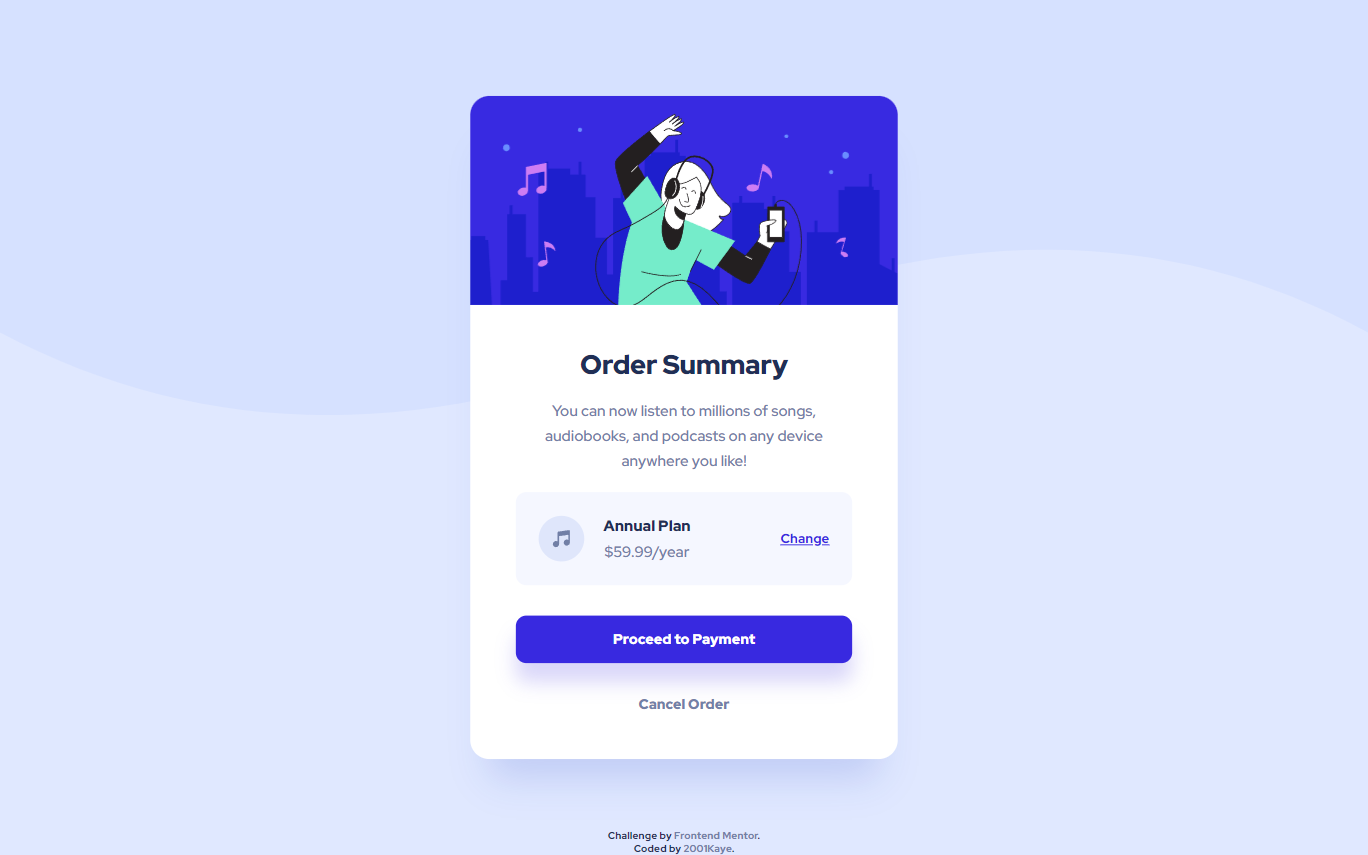
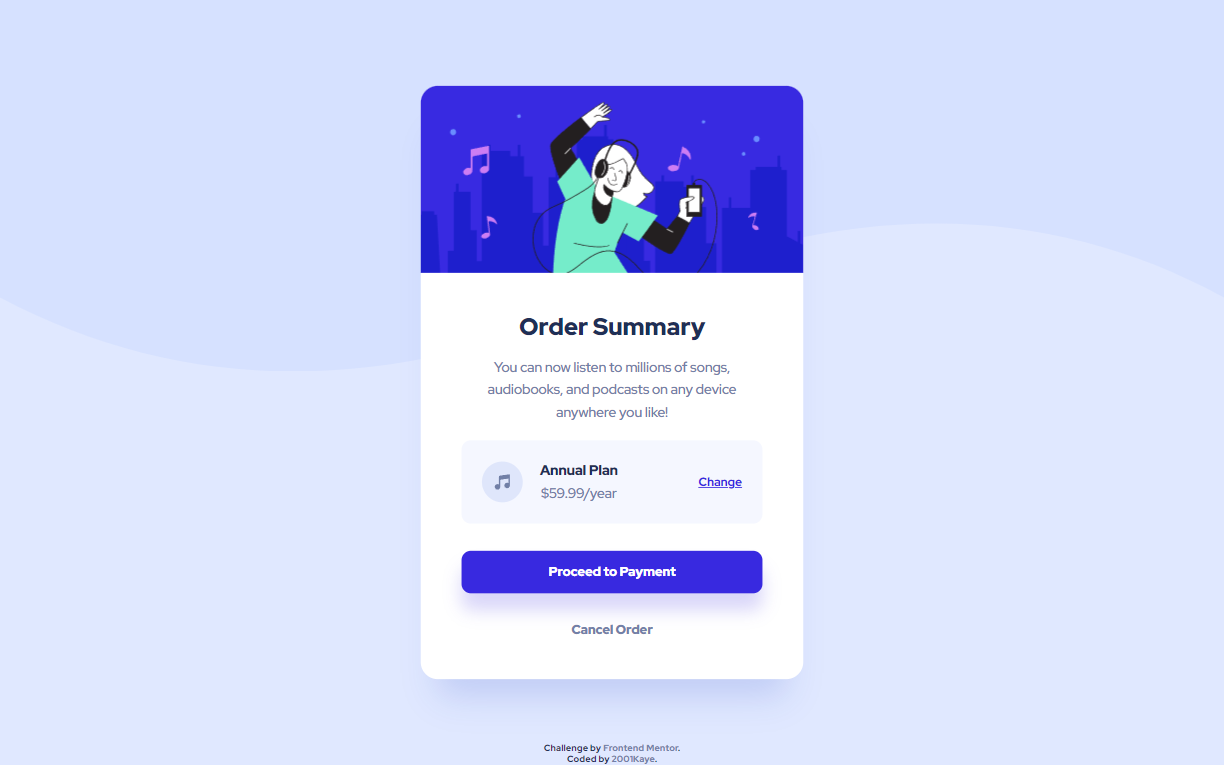
Fixed RWD

diff --git a/styling/scss/_RWD.scss b/styling/scss/_RWD.scss
@@ -1,12 +1,10 @@
 // For mobile:
-body {
-    // set padding
-    padding: 0 rem(24);
-}
-
 .card {
     // RWD with grid
     display: grid;
+
+    // set max width
+    max-width: rem(327);
 
     // image
     .heroImage {
@@ -61,12 +59,12 @@ body {
 
 // For Desktop
 @media only screen and (min-width: 64em) {
-    body {
-        // set padding
-        padding: 0 rem(495);
-    }
 
+    // card
     .card {
+        // set max width
+        max-width: rem(450);
+
         // content
         .content {
             // set padding

diff --git a/styling/css/styles.css b/styling/css/styles.css
@@ -223,13 +223,10 @@ footer a:hover {
   }
 }
 
-body {
-  padding: 0 1.5rem;
-}
-
 .card {
   display: -ms-grid;
   display: grid;
+  max-width: 20.4375rem;
 }
 
 .card .heroImage {
@@ -262,8 +259,8 @@ body {
 }
 
 @media only screen and (min-width: 64em) {
-  body {
-    padding: 0 30.9375rem;
+  .card {
+    max-width: 28.125rem;
   }
   .card .content {
     padding: 2.8125rem 3rem 0.625rem;

diff --git a/README.md b/README.md
@@ -32,7 +32,7 @@ Users should be able to:
 
 ## My process
 
-Updated 2022.Feb.25   
+**Updated 2022.Feb.25**   
 
 [List]
 - card
@@ -49,6 +49,12 @@ Updated 2022.Feb.25
 
 [끄적끄적]   
 padding으로만 반응형을 만들기에는 조금씩 문제가 보이는 것 같다... 물론 breakpoint를 적게 줘서 그런 것 같기도 한데 조금은 어렵다. 특히 width 값을 어떻게 줘야 하는지가 어렵다. 적당히 여백도 있으면서 어떻게 넣으라는거지??? %로 해볼까 했는데 디자인대로 정확히 하고 싶어서 계산해봤는데 오차가 심해서... 음... 역시... 카드라서 그런가 싶기도 하고... 경험이 필요할 것 같다. 계속해서 연구해보자.
+
+**Updated 2022.Feb.26**   
+고민하다가 갑자기 생각난건데 레이아웃이 안 변하고 크기 변화도 적은 카드에는 RWD가 굳이~~~ 필요해 보이진 않아 보인다. 안 이쁘기도 해서 max-width로 적당히만 주는게 best이지 않을까? 싶었다.
+   
+(결론)
+맞다. ㅋㅋㅋ padding보다는 max-width가 나은 것 같다. 디자인에 따라 적절히 활용하자
 
 ## Author
 
